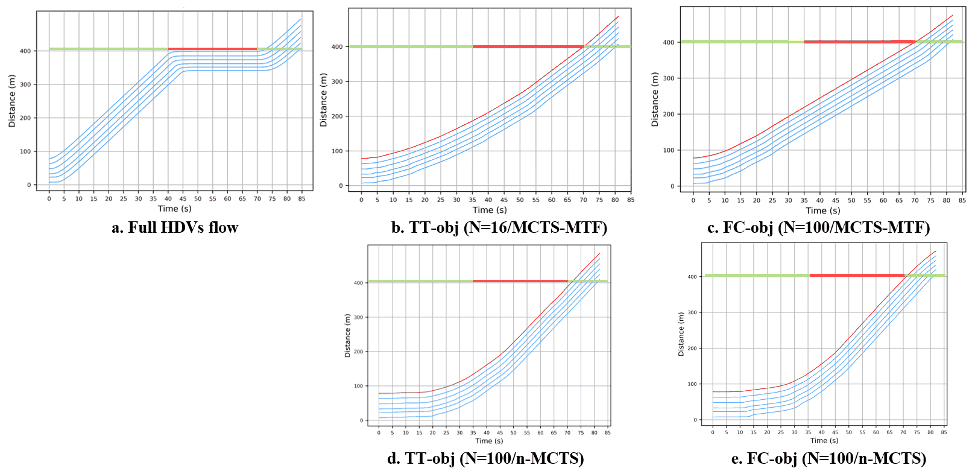
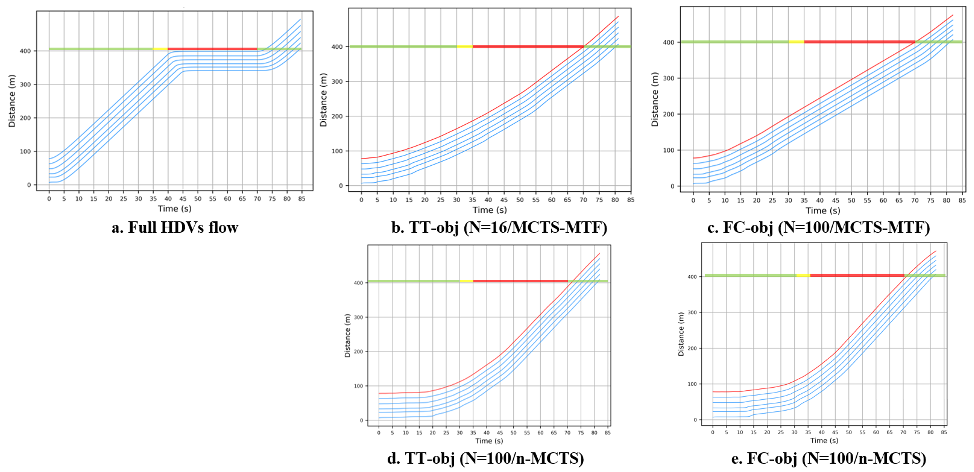
Add Atlas page for the MCTS mixed traffic control paper (TRR 2020)
English and Chinese pages, paper figures, a redrawn level-of-service chart,
and the author manuscript PDF. Removes the paper from the queue.

Claude-Session: https://claude.ai/code/session_01Tj2JJvUcNkJm9TQi65sscK

Changed region(s): [[0.8008, 0.5636, 0.8316, 0.5932], [0.8008, 0.0593, 0.8316, 0.089], [0.462, 0.089, 0.4928, 0.1186]]

diff --git a/src/content/atlas/cheng-mcts-mixed-traffic-trr-2020/en.md b/src/content/atlas/cheng-mcts-mixed-traffic-trr-2020/en.md
@@ -1,0 +1,130 @@
+---
+tldr: >-
+  We let a connected and autonomous vehicle (CAV) leading a line of human-driven cars toward a traffic
+  signal plan its speed the way a Go-playing program plans its moves, with Monte Carlo Tree Search. In
+  simulation the group used 6.5% less fuel or spent 3.5% less time, and our improved search ran 8 times
+  faster than the standard version, quick enough for real time.
+hero:
+  image: /media/cheng-mcts-mixed-traffic-trr-2020/time-space-benchmark-vs-mcts-mtf.png
+  alt: >-
+    Two time-space diagrams of six vehicles driving 400 m toward a signal, with the signal's green, yellow and red
+    phases drawn as a colored bar at the stop line. Left, without CAV control, all six trajectories climb steeply,
+    go flat just below the stop line while the light is red, and climb again after it turns green. Right, with
+    MCTS-MTF, the lead CAV (red line) and the five cars behind it climb at a gentler, steady slope and reach the
+    stop line as the light turns green, without stopping.
+  caption: >-
+    Each line is one vehicle (time to the right, distance up); the colored bar at 400 m is the signal. Without CAV
+    control (left) the cars hurry to the red light, wait, and start again. With MCTS-MTF (right) the lead CAV (red)
+    slows the whole group early so that it rolls through as the light turns green.
+  credit: From the paper
+affiliations:
+  - Missouri University of Science and Technology
+  - Chang'an University
+  - Zhejiang University
+  - Old Dominion University
+author_affiliations: [[2, 1], [1], [1], [3], [4]]
+abstract: |-
+  This manuscript presented a model-free approach based on Monte Carlo Tree Search (MCTS) algorithm for the control of mixed traffic flow of Human-Driven Vehicles (HDV) and connected and autonomous vehicles (CAV), named MCTS-MTF, on a one-lane roadway with signalized intersection control. Previous researches often simplified the problem with certain assumptions to reduce computational burden, such as dividing a vehicle trajectory into several segments with constant speed or linear acceleration/deceleration which was rather unrealistic. This manuscript departed from the existing research that minimum constraints on CAV trajectory control were required, as long as the basic rules such as safety consideration and vehicular performance limit were followed. Modeling efforts were made to improve the algorithm solution quality and the runtime efficiency over naïve MCTS (n-MCTS) algorithm. This was achieved by an exploration-exploitation balance calibration module, and a tree expansion determination module to more effectively expand the tree along the desired direction. The case study results found that the proposed algorithm was able to achieve a travel time saving of 3.5% and a fuel consumption of 6.5%. It was also demonstrated to run 8 times the speed of a naïve MCTS model, suggesting a promising potential for real-time or near real-time applications.
+key_numbers:
+  - { value: "6.5%", label: "less fuel for the six-vehicle group when the CAV aims to save fuel (776.02 ml down to 725.38 ml)" }
+  - { value: "3.5%", label: "less total travel time when the CAV aims to save time (475 s down to 458.5 s)" }
+  - { value: "8×", label: "faster than a standard (naïve) Monte Carlo Tree Search" }
+  - { value: "0.89 s", label: "of computing for each 1-second move, so the CAV decides in time" }
+updated: 2026-10-27
+---
+
+## What problem does this research solve?
+
+On an arterial street with traffic signals, drivers tend to hurry to the next intersection, brake for the red light, wait, and accelerate again when it turns green. Each stop and restart wastes fuel and time. A car that knew when the light would change could ease off early and arrive just as it turns green.
+
+A **connected and autonomous vehicle (CAV)** can do that. It receives the signal timing from the roadside (vehicle-to-infrastructure communication), including which light is on and how many seconds are left; it knows its distance to the stop line; and it can sense the speed and spacing of the car behind it. On a single lane, the human-driven vehicles (HDVs) behind the CAV cannot pass, so the speed the CAV chooses shapes the trip of every car in its group.
+
+<figure>
+  <img src="/media/cheng-mcts-mixed-traffic-trr-2020/basic-interactive-units.png" alt="Two single-lane road sketches running from a start position to a stop line. The top lane has one CAV (shaded box) followed by several plain boxes for human-driven cars; the bottom lane has three CAVs, and dashed boxes group each CAV with the cars directly behind it" loading="lazy" />
+  <figcaption>Splitting mixed traffic into “basic interactive units”. Each CAV (shaded) leads the human-driven cars behind it (plain boxes) until the next CAV, so a lane with several CAVs (bottom) becomes several small groups, each with one CAV in charge. From the paper.</figcaption>
+</figure>
+
+Choosing that speed second by second is a hard optimization problem: each trajectory can take endless shapes, and human drivers react to the CAV in ways that are complex to model. Earlier methods made it solvable by simplifying it, for example by cutting every trajectory into a few segments, each at a constant speed or a constant acceleration. That keeps computing time low, but at the cost of realism and flexibility.
+
+## What did we do?
+
+We treated the CAV's task like a board game. In the game of Go, a program based on **Monte Carlo Tree Search (MCTS)** tries out many possible moves, plays each one out to the end of the game in simulation, and uses the results to decide which branch of possible futures is worth exploring further. Our method, **MCTS-MTF** (MCTS for mixed traffic flow), does the same for driving: at each one-second step the CAV considers speeding up, slowing down or holding its speed, simulates how the cars behind would respond and how the trip would end, and picks the move that leads to the best outcome.
+
+The only rules the CAV must respect are safety and the vehicle's own limits. Its trajectory is not forced into segments of constant speed or acceleration, so at any moment it can accelerate, decelerate or cruise. The interaction goes both ways: the CAV's moves change how the human drivers behave, and their behavior feeds back into the CAV's next choice.
+
+We tested two goals for the search: the **total travel time** of the group, and its **total fuel consumption**, computed with the VT-Micro fuel consumption model. In the simulation, the human drivers follow the car ahead with a well-known car-following model (the optimal velocity model) and react to the signal near the intersection, stopping for red and deciding on yellow whether they can clear the intersection in time.
+
+<figure>
+  <img src="/media/cheng-mcts-mixed-traffic-trr-2020/test-road.png" alt="Sketch of the test road: a straight single lane from a start position to a stop line with a traffic signal; six boxes labeled HDV platoon, with the segment length, the average vehicle length and one vehicle's distance from the start marked" loading="lazy" />
+  <figcaption>The test scenario: a 400 m single-lane segment ending at a signal with a 70-second cycle (30 s green, 5 s yellow, 35 s red). Six vehicles travel at a free-flow speed of 8.33 m/s (about 20 mph); when a CAV is present, it is the first vehicle. From the paper.</figcaption>
+</figure>
+
+## What is the key methodological contribution?
+
+A standard (“naïve”) MCTS works, but it is slow and its results depend on how it is tuned. We added two modules that make the search both better and faster:
+
+- **Tuning how adventurous the search is.** MCTS has to balance *exploitation* (digging deeper into moves that already look good) against *exploration* (trying moves it has rarely tried). One parameter, C, sets that balance. Instead of using the textbook value, we calibrate C by stepping through a range of values on a logarithmic scale. For travel time and for fuel alike, the best value turned out to be about 0.08.
+- **Searching only when it matters.** The standard method launches a full search at every step, even when traffic has hardly changed. That adds no information, can add random noise, and wastes computing. We estimate how strongly a change in the CAV's speed would ripple back through the cars behind it, using the car-following model, and launch a new search only when that impact is large enough. Otherwise the CAV simply moves on to the next step.
+
+<figure class="figure-narrow">
+  <img src="/media/cheng-mcts-mixed-traffic-trr-2020/mcts-mtf-framework.png" alt="Flowchart of MCTS-MTF. At the top, a loop takes the current state of all vehicles and asks whether to launch MCTS; if not, the CAV moves and the state is updated. If yes, the search repeats N times through four dashed boxes: selection (choose the action with the best UCT score, using the calibrated C and the set of allowed actions), expansion (pick a random action), simulation (keep picking random actions until all vehicles have passed the stop line) and backpropagation (compute the final benefit and update the node values). After N iterations the CAV takes the best action" loading="lazy" />
+  <figcaption>How MCTS-MTF decides. The top box checks whether a new search is needed. If it is, the search runs its four classic steps (selection, expansion, simulation, backpropagation) N times, using the calibrated balance parameter C, and the CAV then takes the move with the best average result. From the paper.</figcaption>
+</figure>
+
+## What are the key findings?
+
+**Both goals improve, and fuel has more room.** Without CAV control, the six vehicles took 475 seconds in total and burned 776.02 ml of fuel. With the CAV aiming for the shortest travel time, MCTS-MTF cut travel time by **3.5%** and, as a side effect, fuel by 5.1%. Aiming for the least fuel, it cut fuel by **6.5%** and travel time by 2.8%. In every case MCTS-MTF beat the naïve MCTS.
+
+<figure>
+  <div class="table-scroll">
+    <table class="compare-table is-compact">
+      <thead>
+        <tr><th scope="col">Method</th><th scope="col" class="num">Total travel time (s)</th><th scope="col" class="num">Total fuel (ml)</th></tr>
+      </thead>
+      <tbody>
+        <tr><th scope="row">No CAV control<span>All six vehicles human-driven</span></th><td class="num">475</td><td class="num">776.02</td></tr>
+        <tr><th scope="row">Naïve MCTS<span>Goal: travel time</span></th><td class="num">463.5 (−2.4%)</td><td class="num">747.3 (−3.7%)</td></tr>
+        <tr class="is-highlight"><th scope="row">MCTS-MTF<span>Goal: travel time</span></th><td class="num">458.5 (−3.5%)</td><td class="num">736.76 (−5.1%)</td></tr>
+        <tr><th scope="row">Naïve MCTS<span>Goal: fuel</span></th><td class="num">462 (−2.7%)</td><td class="num">732.57 (−5.6%)</td></tr>
+        <tr class="is-highlight"><th scope="row">MCTS-MTF<span>Goal: fuel</span></th><td class="num">461.5 (−2.8%)</td><td class="num">725.38 (−6.5%)</td></tr>
+      </tbody>
+    </table>
+  </div>
+  <figcaption>Results for the six-vehicle group on the 400 m test road. MCTS-MTF improves on the naïve search for both goals. From Section 4.1 of the paper.</figcaption>
+</figure>
+
+The time-space diagrams show why. Without control, the cars drive at full speed to the red light, stop, and start again. With a CAV in front, the group drives more slowly at first and crosses the stop line soon after the light turns green. The red light puts a ceiling on how much travel time can be saved, whereas fuel depends on how smooth the trajectories are, which leaves more room for improvement.
+
+<figure>
+  <img src="/media/cheng-mcts-mixed-traffic-trr-2020/time-space-all-methods.png" alt="Five time-space diagrams. a: full human-driven flow, where all trajectories flatten below the stop line during red. b and c: MCTS-MTF with the travel-time and fuel goals, where trajectories rise steadily and cross the stop line around the start of green. d and e: naïve MCTS with the same goals, where the vehicles barely move for about the first 20 seconds and then accelerate steeply to the stop line" loading="lazy" />
+  <figcaption>All five runs side by side: (a) no CAV control; (b, c) MCTS-MTF aiming for travel time and for fuel; (d, e) naïve MCTS with the same goals. The naïve search lingers near the start and then accelerates sharply, which costs more fuel than the smoother MCTS-MTF trajectories. N is the number of search iterations. From the paper.</figcaption>
+</figure>
+
+**A few iterations already pay off.** With only 15 search iterations, fuel use already dropped by about 5%; more iterations brought it to 6.5%. After about 90 iterations the result stayed within 5 ml (0.68%) from run to run.
+
+<figure>
+  <img src="/media/cheng-mcts-mixed-traffic-trr-2020/fuel-convergence.png" alt="Line chart of fuel consumption against the number of search iterations, from 0 to 150. Fuel falls from about 776 ml at 0 iterations to about 740 ml at 15, wobbles between about 725 and 755 ml up to 70 iterations, and settles near 726 to 730 ml from 90 iterations on" loading="lazy" />
+  <figcaption>Fuel use of the group as the number of search iterations grows. Most of the saving comes in the first 15 iterations, and the result settles after about 90. From the paper.</figcaption>
+</figure>
+
+**Fast enough for real time.** On a desktop computer (Intel Core i9-9920X, 64 GB of memory), MCTS-MTF planned the whole trip in 73 seconds, while the vehicles needed about 82 seconds to drive it. That works out to about **0.89 seconds of computing for each one-second step**, so each decision is ready before it is needed, and MCTS-MTF ran **8 times faster** than the naïve search. As with a Go program, what matters is not how long the whole game takes but whether each move is ready in time.
+
+<figure>
+  <img src="/media/cheng-mcts-mixed-traffic-trr-2020/decision-timing.png" alt="Timeline from t-start to t-terminal with ticks at t minus delta t, t and t plus delta t, one second apart. MCTS-MTF launches at t minus delta t, runs for 0.89 seconds, returns its action just before t, and the CAV moves at t" loading="lazy" />
+  <figcaption>Why 0.89 seconds is fast enough: the search starts one step ahead, using the predicted positions of the human-driven cars, and returns its answer before the CAV has to move. From the paper.</figcaption>
+</figure>
+
+**Savings depend on how busy the road is.** We repeated the test at six traffic levels, from level of service (LOS) A (free flow) to F (heavily congested). Travel time savings peaked at LOS D (5.5%) and were zero at LOS A, where there is little delay to remove. Fuel savings were largest in light traffic, 10.7% at LOS B and 9.5% at LOS A, and fell to 1 to 1.6% once traffic became congested.
+
+<figure>
+  <img src="/media/cheng-mcts-mixed-traffic-trr-2020/savings-by-level-of-service.png" alt="Grouped bar chart of savings at levels of service A to F. Travel time saved: 0.0, 3.0, 3.5, 5.5, 1.7 and 2.9 percent. Fuel saved: 9.5, 10.7, 6.5, 5.4, 1.0 and 1.6 percent" loading="lazy" />
+  <figcaption>Savings at different traffic levels. Fuel savings are largest in light traffic; travel time savings are largest in moderately busy traffic (LOS D). Data from Table 1 of the paper, redrawn.</figcaption>
+</figure>
+
+## What can this be used for?
+
+- **Eco-driving for connected and automated vehicles**: a speed controller for signalized arterials that needs only the signal timing, the distance to the stop line and the car behind, and that can pursue either fuel savings or shorter travel times.
+- **Benefits before every car is automated**: because one CAV sets the pace for the human-driven cars behind it, savings appear with a single CAV at the head of a group.
+- **Signal and corridor agencies**: the method depends on vehicles receiving signal phase and timing in real time, and the results show where the gains are largest: light-to-moderate traffic.
+
+The study covers one lane approaching one signal, in simulation. Extending it to multi-lane networks and to several CAVs working toward a common goal is left for future work. Our [follow-up study](/cheng-drl-trajectory-planning-jits-2023/) replaced the tree search with deep reinforcement learning, which saves more fuel and decides much faster.

diff --git a/src/content/atlas/cheng-mcts-mixed-traffic-trr-2020/zh.md b/src/content/atlas/cheng-mcts-mixed-traffic-trr-2020/zh.md
@@ -1,0 +1,110 @@
+---
+title: 基于蒙特卡洛树搜索的干道交叉口混合交通流控制算法
+tldr: >-
+  我们让一辆网联自动驾驶车辆（CAV）在带领后方人工驾驶车辆驶向信号灯路口时，像围棋程序下棋那样用蒙特卡洛树搜索规划自己的车速。仿真中，整个车队的油耗降低了6.5%，或总出行时间减少了3.5%；改进后的搜索算法比标准版本快8倍，足以实时运行。
+hero:
+  caption: >-
+    每条线代表一辆车（横轴为时间，纵轴为行驶距离）；400米处的彩色横条是信号灯。左图（Without CAV control）为无CAV控制：车辆赶到红灯前停车等待，再重新起步。右图（With MCTS-MTF）为本文方法：领头的CAV（红线）提前放慢整队车速，使车队在绿灯亮起时顺畅通过。
+key_numbers:
+  - { value: "6.5%", label: "CAV以节油为目标时，六车车队的油耗降幅（由776.02毫升降至725.38毫升）" }
+  - { value: "3.5%", label: "CAV以省时为目标时，总出行时间的降幅（由475秒降至458.5秒）" }
+  - { value: "8 倍", label: "相比标准（朴素）蒙特卡洛树搜索的运行速度" }
+  - { value: "0.89 秒", label: "每一步1秒决策所需的计算时间，CAV能及时做出决定" }
+updated: 2026-10-27
+---
+
+## 这项研究解决了什么问题？
+
+在有信号灯的城市干道上，驾驶员往往加速赶到下一个路口，遇红灯刹车、等待，绿灯亮起后再加速。每一次停车和起步都在浪费燃油和时间。如果车辆提前知道信号灯何时变化，就可以早早松油门，在绿灯亮起时刚好抵达路口。
+
+**网联自动驾驶车辆**（Connected and Autonomous Vehicle，CAV）可以做到这一点。它通过车路通信（V2I）获取信号配时，包括当前亮的是哪种灯、还剩多少秒；它知道自己离停车线还有多远；它还能感知紧随其后那辆车的速度和车头间距。在单车道上，CAV后方的人工驾驶车辆（Human-Driven Vehicle，HDV）无法超车，所以CAV选择的车速决定了它所带领的每一辆车的行程。
+
+<figure>
+  <img src="/media/cheng-mcts-mixed-traffic-trr-2020/basic-interactive-units.png" alt="两条从起点通往停车线的单车道示意图。上方车道只有一辆CAV（阴影方框），后面跟着若干代表人工驾驶车辆的空白方框；下方车道有三辆CAV，虚线框把每辆CAV与紧跟其后的车辆分为一组" loading="lazy" />
+  <figcaption>把混合交通流拆分为“基本交互单元”。每辆CAV（阴影）带领其后方直到下一辆CAV之前的人工驾驶车辆（空白方框），因此有多辆CAV的车道（下图）会被拆成多个小组，每组由一辆CAV主导。图片来自论文。</figcaption>
+</figure>
+
+逐秒选择车速是一个困难的优化问题：每条轨迹的形状有无穷多种可能，人类驾驶员对CAV的反应也很难建模。以往的方法通过简化问题来求解，例如把每条轨迹切成几段，每段以恒定速度或恒定加速度行驶。这样计算量小，却牺牲了真实性和灵活性。
+
+## 我们做了什么？
+
+我们把CAV的任务当作一盘棋来处理。在围棋中，基于**蒙特卡洛树搜索**（Monte Carlo Tree Search，MCTS）的程序会尝试许多可能的落子，在模拟中把每一步一直下到终局，再根据结果决定哪些分支值得继续深入。我们的方法**MCTS-MTF**（面向混合交通流的MCTS）对驾驶做同样的事：在每一个1秒的时间步，CAV考虑加速、减速或保持车速，模拟后方车辆会如何反应、整段行程会如何结束，然后选出结果最好的那一步。
+
+CAV只需遵守安全和车辆性能极限这两条基本规则。它的轨迹不必拆成恒速或恒加速度的分段，任何时刻都可以加速、减速或匀速行驶。CAV与人工驾驶车辆之间是双向互动的：CAV的动作会改变人类驾驶员的行为，而他们的行为又反过来影响CAV的下一步选择。
+
+我们为搜索设定了两种目标：车队的**总出行时间**，以及用VT-Micro油耗模型计算的**总油耗**。仿真中，人工驾驶车辆按经典的跟驰模型（优化速度模型）跟随前车行驶，接近路口时对信号灯做出反应：红灯停车，黄灯时判断能否在黄灯结束前通过。
+
+<figure>
+  <img src="/media/cheng-mcts-mixed-traffic-trr-2020/test-road.png" alt="测试路段示意图：一条从起点到停车线的直线单车道，停车线处有信号灯；六个方框标为HDV车队，图中标出了路段长度、平均车长以及一辆车距起点的距离" loading="lazy" />
+  <figcaption>测试场景：一段400米长的单车道，末端信号灯周期为70秒（绿灯30秒、黄灯5秒、红灯35秒）。六辆车以8.33米/秒（约30公里/小时）的自由流速度行驶；在有CAV的方案中，头车为CAV。图片来自论文。</figcaption>
+</figure>
+
+## 关键的方法论贡献是什么？
+
+标准的（“朴素”）MCTS可以用，但速度慢，结果还取决于参数如何设置。我们增加了两个模块，让搜索既更好又更快：
+
+- **调节搜索的“冒险程度”。** MCTS需要在*利用*（深挖已经看起来不错的走法）和*探索*（尝试很少尝试过的走法）之间取得平衡，由参数C控制。我们不直接采用教科书上的取值，而是在对数尺度上逐步扫描一系列C值进行标定。无论以出行时间还是以油耗为目标，最佳C值都在0.08左右。
+- **只在必要时才搜索。** 标准方法在每一步都启动完整搜索，即使交通状况几乎没有变化。这样做不带来新信息，可能引入随机噪声，还浪费计算资源。我们借助跟驰模型估算CAV车速变化对后方车辆的连锁影响，只有影响足够大时才启动新的搜索；否则CAV直接进入下一步。
+
+<figure class="figure-narrow">
+  <img src="/media/cheng-mcts-mixed-traffic-trr-2020/mcts-mtf-framework.png" alt="MCTS-MTF流程图。顶部循环读取所有车辆的当前状态，判断是否启动MCTS；若否，CAV直接移动并更新状态。若是，搜索在四个虚线框中重复N次：选择（用标定后的C和允许的动作集，选UCT得分最高的动作）、扩展（随机选一个动作）、模拟（持续随机选动作，直到所有车辆通过停车线）、反向传播（计算最终收益并更新节点值）。N次迭代后，CAV执行最优动作" loading="lazy" />
+  <figcaption>MCTS-MTF如何做决策。顶部的框判断是否需要新的搜索；若需要，搜索使用标定后的平衡参数C，把选择、扩展、模拟、反向传播这四个经典步骤重复N次，然后CAV执行平均结果最好的动作。图片来自论文。</figcaption>
+</figure>
+
+## 主要发现是什么？
+
+**两个目标都得到改善，而油耗的改进空间更大。** 无CAV控制时，六辆车的总出行时间为475秒，总油耗为776.02毫升。以最短出行时间为目标时，MCTS-MTF使出行时间减少**3.5%**，油耗也顺带降低了5.1%；以最低油耗为目标时，油耗降低**6.5%**，出行时间减少2.8%。在所有情形中，MCTS-MTF都优于朴素MCTS。
+
+<figure>
+  <div class="table-scroll">
+    <table class="compare-table is-compact">
+      <thead>
+        <tr><th scope="col">方法</th><th scope="col" class="num">总出行时间（秒）</th><th scope="col" class="num">总油耗（毫升）</th></tr>
+      </thead>
+      <tbody>
+        <tr><th scope="row">无CAV控制<span>六辆车均为人工驾驶</span></th><td class="num">475</td><td class="num">776.02</td></tr>
+        <tr><th scope="row">朴素MCTS<span>目标：出行时间</span></th><td class="num">463.5（−2.4%）</td><td class="num">747.3（−3.7%）</td></tr>
+        <tr class="is-highlight"><th scope="row">MCTS-MTF<span>目标：出行时间</span></th><td class="num">458.5（−3.5%）</td><td class="num">736.76（−5.1%）</td></tr>
+        <tr><th scope="row">朴素MCTS<span>目标：油耗</span></th><td class="num">462（−2.7%）</td><td class="num">732.57（−5.6%）</td></tr>
+        <tr class="is-highlight"><th scope="row">MCTS-MTF<span>目标：油耗</span></th><td class="num">461.5（−2.8%）</td><td class="num">725.38（−6.5%）</td></tr>
+      </tbody>
+    </table>
+  </div>
+  <figcaption>400米测试路段上六车车队的结果。两种目标下，MCTS-MTF都优于朴素搜索。数据来自论文第4.1节。</figcaption>
+</figure>
+
+时空图揭示了原因。无控制时，车辆全速驶向红灯、停车、再起步；有CAV领头时，车队一开始开得慢一些，绿灯亮起后不久便通过停车线。红灯限制了出行时间能节省多少，而油耗取决于轨迹是否平顺，因此改进空间更大。
+
+<figure>
+  <img src="/media/cheng-mcts-mixed-traffic-trr-2020/time-space-all-methods.png" alt="五张时空图。a：全部为人工驾驶车辆，红灯期间所有轨迹在停车线下方变平。b和c：MCTS-MTF分别以出行时间和油耗为目标，轨迹平稳上升，约在绿灯开始时通过停车线。d和e：朴素MCTS采用相同目标，车辆在最初约20秒几乎不动，随后急剧加速驶向停车线" loading="lazy" />
+  <figcaption>五种方案对比：（a）无CAV控制；（b、c）MCTS-MTF分别以出行时间和油耗为目标；（d、e）朴素MCTS采用相同目标。朴素搜索在起点附近停留过久，随后猛加速，比MCTS-MTF更平顺的轨迹多耗油。N为搜索迭代次数。图片来自论文。</figcaption>
+</figure>
+
+**少量迭代就已见效。** 只用15次搜索迭代，油耗就已降低约5%；迭代次数增加后达到6.5%。约90次迭代之后，结果的波动保持在5毫升（0.68%）以内。
+
+<figure>
+  <img src="/media/cheng-mcts-mixed-traffic-trr-2020/fuel-convergence.png" alt="油耗随搜索迭代次数（0到150）变化的折线图。油耗从0次迭代时的约776毫升降到15次时的约740毫升，70次以前在约725到755毫升之间波动，90次以后稳定在约726到730毫升" loading="lazy" />
+  <figcaption>车队油耗随搜索迭代次数的变化。大部分节省在前15次迭代中实现，约90次后结果趋于稳定。图片来自论文。</figcaption>
+</figure>
+
+**速度足以实时运行。** 在一台台式电脑（Intel Core i9-9920X，64 GB内存）上，MCTS-MTF规划整段行程用时73秒，而车辆实际行驶约需82秒。折算下来，**每1秒的时间步约需0.89秒计算**，每个决策都能在需要之前准备好；MCTS-MTF的运行速度是朴素搜索的**8倍**。就像围棋程序一样，关键不在于整盘棋下多久，而在于每一步能否及时落子。
+
+<figure>
+  <img src="/media/cheng-mcts-mixed-traffic-trr-2020/decision-timing.png" alt="从起始时刻到终止时刻的时间轴，t减Δt、t、t加Δt三个刻度彼此相隔1秒。MCTS-MTF在t减Δt时启动，运行0.89秒，在t之前返回动作，CAV在t时刻执行" loading="lazy" />
+  <figcaption>为什么0.89秒就够用：搜索提前一步启动，利用对人工驾驶车辆位置的预测，在CAV需要行动之前给出答案。图片来自论文。</figcaption>
+</figure>
+
+**节省幅度取决于道路有多繁忙。** 我们在从服务水平（Level of Service，LOS）A（畅通）到F（严重拥堵）的六种交通状况下重复测试。出行时间的节省在LOS D最大（5.5%），在LOS A为零，因为畅通时几乎没有延误可减。油耗的节省在交通较轻时最大，LOS B为10.7%，LOS A为9.5%；一旦拥堵，降到1%至1.6%。
+
+<figure>
+  <img src="/media/cheng-mcts-mixed-traffic-trr-2020/savings-by-level-of-service-zh.png" alt="服务水平A到F下节省幅度的分组柱状图。出行时间节省：0.0%、3.0%、3.5%、5.5%、1.7%、2.9%。油耗节省：9.5%、10.7%、6.5%、5.4%、1.0%、1.6%" loading="lazy" />
+  <figcaption>不同交通状况下的节省幅度。油耗节省在交通较轻时最大；出行时间节省在中等繁忙（LOS D）时最大。数据来自论文表1，重新绘制。</figcaption>
+</figure>
+
+## 这项研究可以用来做什么？
+
+- <strong>网联自动驾驶车辆的生态驾驶</strong>：一种用于信号控制干道的车速控制方法，只需要信号配时、到停车线的距离和后车信息，既可以追求节油，也可以追求缩短出行时间。
+- <strong>不必等到所有车辆都自动驾驶</strong>：由于一辆CAV就能为身后的人工驾驶车辆定下节奏，只要车队前方有一辆CAV，节省就会出现。
+- <strong>信号与干道管理部门</strong>：该方法依赖车辆实时获取信号相位与配时信息；结果也显示了收益最大的场景：交通较轻到中等繁忙的时段。
+
+本研究只针对驶向单个信号灯的单车道，且基于仿真。如何推广到多车道路网，以及多辆CAV如何协同实现共同目标，留待今后研究。我们的[后续研究](/cheng-drl-trajectory-planning-jits-2023/zh/)用深度强化学习取代了树搜索，节油更多，决策速度也快得多。

diff --git a/PAPER-QUEUE.md b/PAPER-QUEUE.md
@@ -33,25 +33,23 @@ one at a time with the `atlas-paper-page` skill, each in its own thread. Rank is
   Tang, Q.#, Hu, X.\*, Ru, Q. (2022). Development of Operation Guidelines for Leader-Follower Autonomous Maintenance Vehicles at Work Zone Locations. Transportation Research Record: Journal of the Transportation Research Board. 2676(3): 696-711. https://doi.org/10.1177/03611981211056644
 - [ ] **12.** `li-ppdp-smart-card-trc-2020`
   Li, Y.#, Yang, D., Hu, X.\* (2020). A Differential Privacy-Based Privacy-Preserving Data Publishing Algorithm for Transit Smart Card Data. Transportation Research Part C: Emerging Technologies. 115, 102634. https://doi.org/10.1016/j.trc.2020.102634
-- [ ] **13.** `cheng-mcts-mixed-traffic-trr-2020`
-  Cheng, Y.#, Tang, Q.#, Hu, X.\*, Qi, H., Yang, H. (2020). A Monte Carlo Tree Search-Based Mixed Traffic Flow Control Algorithm for Arterial Intersection. Transportation Research Record: Journal of the Transportation Research Board. 2674(8), 167--178. https://doi.org/10.1177%2F0361198120919746
-- [ ] **14.** `hu-departure-time-ijst-2020`
+- [ ] **13.** `hu-departure-time-ijst-2020`
   Hu, X.\*, Zhu. X., Chiu. Y.C., Tang, Q.# (2020). Will Information and Incentive Affect Traveler's Day-to-Day Departure Time Decisions? - An Empirical Study of Decision Making Evolution Process. International Journal of Sustainable Transportation. 14(6), 403--412. https://doi.org/10.1080/15568318.2019.1570402
-- [ ] **15.** `hu-capacity-reduction-gps-jits-2019`
+- [ ] **14.** `hu-capacity-reduction-gps-jits-2019`
   Hu, X. \*, Yuan, Y., Zhu, X., Yang, H., Xie, K. (2019). Behavioral Responses to Pre-Planned Road Capacity Reduction Based on Smartphone GPS Trajectory Data - A Functional Data Analysis Approach. Journal of Intelligent Transportation Systems: Technology, Planning, and Operations. 23, 133-143. https://doi.org/10.1080/15472450.2018.1488133
-- [ ] **16.** `hu-ubi-contextual-risk-ietits-2019`
+- [ ] **15.** `hu-ubi-contextual-risk-ietits-2019`
   Hu, X\*., Zhu, X., Ma, Y.L., Chiu, Y. C., Tang, Q. # (2019). Advancing Usage Based Insurance – A Contextual Driving Risk Modeling and Analysis Approach. IET Intelligent Transport Systems. 13, 453 – 460. 2019. https://doi.org/10.1049/iet-its.2018.5194
-- [ ] **17.** `ma-ubi-rate-making-tra-2018`
+- [ ] **16.** `ma-ubi-rate-making-tra-2018`
   Ma, Y.L., Zhu, X., Hu, X.\*, Chiu, Y.C. (2018). The Use of Context-Sensitive Insurance Telematics Data in Auto Insurance Rate Making. Transportation Research Part A: Policy and Practice. Volume 113, Pages 243-258. https://doi.org/10.1016/j.tra.2018.04.013
-- [ ] **18.** `an-network-partitioning-mfd-tits-2018`
+- [ ] **17.** `an-network-partitioning-mfd-tits-2018`
   An, K., Chiu, Y.C., Hu, X., and Chen, X. (2018) "A Network Partitioning Algorithmic Approach for Macroscopic Fundamental Diagram-Based Hierarchical Traffic Network Management." IEEE Transactions on Intelligent Transportation Systems. Volume 19, Issue 4, Pages 1130-1139. https://doi.org/10.1109/TITS.2017.2713808
-- [ ] **19.** `hu-od-calibration-tits-2017`
+- [ ] **18.** `hu-od-calibration-tits-2017`
   Hu, X.\*, Chiu Y.C., Villalobos, J., Nava, E. (2017). "A Sequential Decomposition Framework and Method for Calibrating Dynamic Origin-Destination Demand in a Congested Network." IEEE Transactions on Intelligent Transportation Systems. Volume 18, Issue 10, Pages 2790-2797. https://doi.org/10.1109/TITS.2017.2661751
-- [ ] **20.** `hu-behavior-induced-so-tdm-jits-2017`
+- [ ] **19.** `hu-behavior-induced-so-tdm-jits-2017`
   Hu, X.\*, Chiu, Y.C., Shelton, J. (2017). Development of a Behaviorally Induced System Optimal Travel Demand Management System. Journal of Intelligent Transportation Systems: Technology, Planning, and Operations. Volume 21, Issue 1, pages 12-25. https://doi.org/10.1080/15472450.2016.1171151
-- [ ] **21.** `zhu-bayesian-driving-risk-trc-2017`
+- [ ] **20.** `zhu-bayesian-driving-risk-trc-2017`
   Zhu, X., Yuan, Y., Hu, X., Chiu, Y.C., and Ma, Y.L. (2017). "A Bayesian Network model for contextual versus non-contextual driving behavior assessment." Transportation Research Part C: Emerging Technologies. Volume 81, Pages 172-187. 2017. https://doi.org/10.1016/j.trc.2017.05.015
-- [ ] **22.** `hu-incentive-adm-ijtst-2015`
+- [ ] **21.** `hu-incentive-adm-ijtst-2015`
   Hu, X.\*, Chiu, Y.C., Zhu, L. (2015). Behavior Insights for Incentive-Based Active Demand Management Platform. International Journal of Transportation Science and Technology. Volume 4, Issue 2, Pages 119-133. https://doi.org/10.1260/2046-0430.4.2.119
-- [ ] **23.** `hu-vacant-taxi-routing-trr-2012`
+- [ ] **22.** `hu-vacant-taxi-routing-trr-2012`
   Hu, X., Gao, S., Chiu, Y.C., Lin, D.Y. (2012). Modeling Routing Behavior for Vacant Taxi Cabs in Urban Traffic Networks. Transportation Research Record: Journal of the Transportation Research Board. Volume 2284, Issue 1, Pages 81-88. https://doi.org/10.3141%2F2284-10
